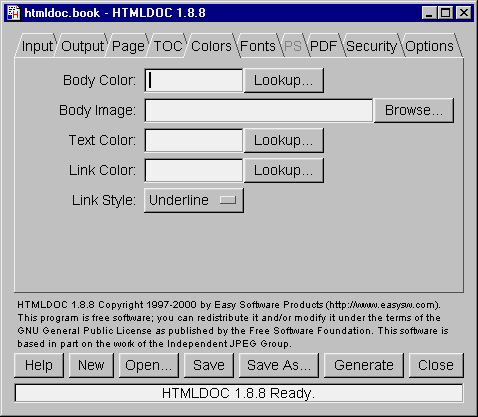
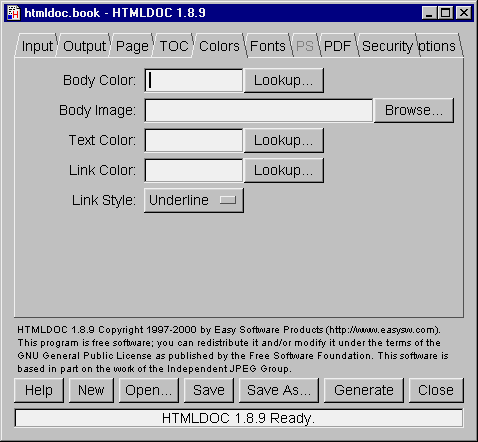
Doco updates.
Updated configure script to test for snprintf.

Changed region(s): [[0.0, 0.0, 0.9958, 0.53], [0.0293, 0.6859, 0.9665, 0.9664], [0.1464, 0.3118, 0.2929, 0.3429]]

diff --git a/branches/branch-1.8/doc/6-htmlref.html b/branches/branch-1.8/doc/6-htmlref.html
@@ -23,6 +23,10 @@ htmldoc -f filename.pdf filename.html
 page files you <B>must</B> use the <CODE>--webpage</CODE> option at the
 command-line or choose <VAR>Web Page</VAR> in the input tab of the GUI.
 
+<P><B><I>HTMLDOC</I> does not support HTML 4.0 elements, attributes,
+stylesheets, or scripting.</B>
+
+<!-- NEED 5in -->
 <H2>Elements</H2>
 
 The following HTML elements are recognized by <I>HTMLDOC</I>:
@@ -34,7 +38,6 @@ The following HTML elements are recognized by <I>HTMLDOC</I>:
 <TR><TD>A</TD><TD ALIGN="CENTER">1.0</TD><TD ALIGN="CENTER">Yes</TD><TD><A HREF="#LINKS">See Below</A></TD></TR>
 <TR><TD>ACRONYM</TD><TD ALIGN="CENTER">2.0</TD><TD ALIGN="CENTER">Yes</TD><TD>No font change</TD></TR>
 <TR><TD>ADDRESS</TD><TD ALIGN="CENTER">2.0</TD><TD ALIGN="CENTER">Yes</TD><TD>&nbsp;</TD></TR>
-<TR><TD>APPLET</TD><TD ALIGN="CENTER">4.0</TD><TD ALIGN="CENTER">No</TD><TD>&nbsp;</TD></TR>
 <TR><TD>AREA</TD><TD ALIGN="CENTER">2.0</TD><TD ALIGN="CENTER">No</TD><TD>&nbsp;</TD></TR>
 <TR><TD>B</TD><TD ALIGN="CENTER">1.0</TD><TD ALIGN="CENTER">Yes</TD><TD>&nbsp;</TD></TR>
 <TR><TD>BASE</TD><TD ALIGN="CENTER">2.0</TD><TD ALIGN="CENTER">No</TD><TD>&nbsp;</TD></TR>
@@ -48,8 +51,6 @@ The following HTML elements are recognized by <I>HTMLDOC</I>:
 <TR><TD>CENTER</TD><TD ALIGN="CENTER">2.0</TD><TD ALIGN="CENTER">Yes</TD><TD>&nbsp;</TD></TR>
 <TR><TD>CITE</TD><TD ALIGN="CENTER">2.0</TD><TD ALIGN="CENTER">Yes</TD><TD>Italic/Oblique</TD></TR>
 <TR><TD>CODE</TD><TD ALIGN="CENTER">2.0</TD><TD ALIGN="CENTER">Yes</TD><TD>Courier</TD></TR>
-<TR><TD>COL</TD><TD ALIGN="CENTER">4.0</TD><TD ALIGN="CENTER">No</TD><TD>&nbsp;</TD></TR>
-<TR><TD>COLGROUP</TD><TD ALIGN="CENTER">4.0</TD><TD ALIGN="CENTER">No</TD><TD>&nbsp;</TD></TR>
 <TR><TD>DD</TD><TD ALIGN="CENTER">2.0</TD><TD ALIGN="CENTER">Yes</TD><TD>&nbsp;</TD></TR>
 <TR><TD>DEL</TD><TD ALIGN="CENTER">2.0</TD><TD ALIGN="CENTER">Yes</TD><TD>Strikethrough</TD></TR>
 <TR><TD>DFN</TD><TD ALIGN="CENTER">2.0</TD><TD ALIGN="CENTER">Yes</TD><TD>Helvetica</TD></TR>
@@ -98,16 +99,12 @@ The following HTML elements are recognized by <I>HTMLDOC</I>:
 <TR><TD>SPACER</TD><TD ALIGN="CENTER">N3.0</TD><TD ALIGN="CENTER">Yes</TD><TD>&nbsp;</TD></TR>
 <TR><TD>STRIKE</TD><TD ALIGN="CENTER">2.0</TD><TD ALIGN="CENTER">Yes</TD><TD>&nbsp;</TD></TR>
 <TR><TD>STRONG</TD><TD ALIGN="CENTER">2.0</TD><TD ALIGN="CENTER">Yes</TD><TD>Boldface Italic/Oblique</TD></TR>
-<TR><TD>STYLE</TD><TD ALIGN="CENTER">4.0</TD><TD ALIGN="CENTER">No</TD><TD>&nbsp;</TD></TR>
 <TR><TD>SUB</TD><TD ALIGN="CENTER">2.0</TD><TD ALIGN="CENTER">Yes</TD><TD>Reduced Fontsize</TD></TR>
 <TR><TD>SUP</TD><TD ALIGN="CENTER">2.0</TD><TD ALIGN="CENTER">Yes</TD><TD>Reduced Fontsize</TD></TR>
 <TR><TD>TABLE</TD><TD ALIGN="CENTER">2.0</TD><TD ALIGN="CENTER">Yes</TD><TD><A HREF="#TABLE">See Below</A></TD></TR>
-<TR><TD>TBODY</TD><TD ALIGN="CENTER">4.0</TD><TD ALIGN="CENTER">Yes</TD><TD>&nbsp;</TD></TR>
 <TR><TD>TD</TD><TD ALIGN="CENTER">2.0</TD><TD ALIGN="CENTER">Yes</TD><TD>&nbsp;</TD></TR>
 <TR><TD>TEXTAREA</TD><TD ALIGN="CENTER">2.0</TD><TD ALIGN="CENTER">No</TD><TD>&nbsp;</TD></TR>
-<TR><TD>TFOOT</TD><TD ALIGN="CENTER">4.0</TD><TD ALIGN="CENTER">No</TD><TD>&nbsp;</TD></TR>
 <TR><TD>TH</TD><TD ALIGN="CENTER">2.0</TD><TD ALIGN="CENTER">Yes</TD><TD>Boldface Center</TD></TR>
-<TR><TD>THEAD</TD><TD ALIGN="CENTER">4.0</TD><TD ALIGN="CENTER">No</TD><TD>&nbsp;</TD></TR>
 <TR><TD>TITLE</TD><TD ALIGN="CENTER">2.0</TD><TD ALIGN="CENTER">Yes</TD><TD>&nbsp;</TD></TR>
 <TR><TD>TR</TD><TD ALIGN="CENTER">2.0</TD><TD ALIGN="CENTER">Yes</TD><TD>&nbsp;</TD></TR>
 <TR><TD>TT</TD><TD ALIGN="CENTER">2.0</TD><TD ALIGN="CENTER">Yes</TD><TD>Courier</TD></TR>
@@ -144,6 +141,7 @@ The following HTML elements are recognized by <I>HTMLDOC</I>:
 
 </DL>
 
+<!-- NEED 5in -->
 <H2><A NAME="FONT">FONT Attributes</A></H2>
 
 Limited typeface specification is currently supported to ensure
@@ -282,6 +280,7 @@ can directly link to another local PDF file from your HTML document with:
 &lt;A HREF="filename.pdf"&gt;...&lt;/A&gt;
 </PRE></UL>
 
+<!-- NEED 5in -->
 <H2><A NAME="META">META Attributes</A></H2>
 
 <I>HTMLDOC</I> supports the following <CODE>META</CODE> attributes for the
@@ -300,6 +299,9 @@ title page and document information:
 
 	<DT><CODE>&lt;META NAME="GENERATOR" CONTENT="..."</CODE>
 	<DD>Specifies the application that generated the HTML file.
+
+	<DT><CODE>&lt;META NAME="KEYWORDS" CONTENT="..."</CODE>
+	<DD>Specifies document search keywords.
 
 </DL>
 
@@ -331,6 +333,10 @@ included with the source code.
 	of the table.
 
 </UL>
+
+<P><B><I>HTMLDOC</I> does not support HTML 4.0 table elements or
+attributes, such as <CODE>TBODY</CODE>, <CODE>THEAD</CODE>,
+<CODE>TFOOT</CODE>, or <CODE>RULES</CODE>.</B>
 
 </BODY>
 </HTML>

diff --git a/branches/branch-1.8/doc/8-cmdref.html b/branches/branch-1.8/doc/8-cmdref.html
@@ -66,6 +66,7 @@ The <CODE>--bodycolor</CODE> option specifies the background color for all
 pages in the document. The color can be specified by name or as a 6-digit
 hexadecimal number of the form <CODE>#RRGGBB</CODE>.
 
+<!-- NEED 4in -->
 <H3>--bodyfont typeface</H3>
 
 The <CODE>--bodyfont</CODE> option specifies the default text font used for
@@ -113,6 +114,7 @@ generating PostScript and PDF files. It does not affect the font size of text.
 
 <P>This option is only available when generating PostScript or PDF files.
 
+<!-- NEED 4in -->
 <H3>--charset charset</H3>
 
 The <CODE>--charset</CODE> option specifies the 8-bit character set encoding
@@ -178,6 +180,7 @@ features for PDF output.
 
 <P>This option is only available when generating PDF files.
 
+<!-- NEED 3in -->
 <H3>--firstpage page</H3>
 
 The <CODE>--firstpage</CODE> option specifies the first page that will be
@@ -204,6 +207,7 @@ The <CODE>--fontspacing</CODE> option specifies the line spacing for the
 entire document as a multiplier of the base font size. A <CODE>spacing</CODE>
 value of 1 makes each line of text the same height as the font.
 
+<!-- NEED 6in -->
 <H3>--footer lcr</H3>
 
 The <CODE>--footer</CODE> option specifies the contents of the page
@@ -258,6 +262,7 @@ The <CODE>--gray</CODE> option specifies that grayscale output is desired.
 
 <P>This option is only available when generating PostScript or PDF files.
 
+<!-- NEED 6in -->
 <H3>--header lcr</H3>
 
 The <CODE>--header</CODE> option specifies the contents of the page
@@ -287,6 +292,7 @@ can be one of the following:
 
 <P>This option is only available when generating PostScript or PDF files.
 
+<!-- NEED 4in -->
 <H3>--headfootfont font</H3>
 
 The <CODE>--headfootfont</CODE> option specifies the font that is used for
@@ -332,6 +338,7 @@ text in points (1 point = 1/72nd inch).
 
 <P>This option is only available when generating PostScript or PDF files.
 
+<!-- NEED 4in -->
 <H3>--headingfont typeface</H3>
 
 The <CODE>--headingfont</CODE> options sets the typeface that is used
@@ -459,7 +466,7 @@ each page will be displayed in the document.
 
 <P>This option is only available when generating PDF files.
 
-<!-- NEED 5in -->
+<!-- NEED 6in -->
 <H3>--pageeffect effect</H3>
 
 The <CODE>--pageeffect</CODE> option specifies the page effect to use in
@@ -526,6 +533,7 @@ server paths to load.
 <P>Directories are separated by the semicolon (;) so that drive letters
 (and eventually URLs) can be specified.
 
+<!-- NEED 5in -->
 <H3>--permissions permission</H3>
 
 <P>The <CODE>--permissions</CODE> option specifies the document permissions.
@@ -596,6 +604,7 @@ The <CODE>--textcolor</CODE> option specifies the default text color
 for all pages in the document. The color can be specified by name or as
 a 6-digit hexadecimal number of the form <CODE>#RRGGBB</CODE>.
 
+<!-- NEED 4in -->
 <H3>--textfont typeface</H3>
 
 The <CODE>--textfont</CODE> options sets the typeface that is used for
@@ -629,6 +638,7 @@ the title page.
 The <CODE>--titleimage</CODE> option specifies the title image for the
 title page. The supported formats are GIF, JPEG, and PNG.
 
+<!-- NEED 6in -->
 <H3>--tocfooter lcr</H3>
 
 The <CODE>--tocfooter</CODE> option specifies the contents of the
@@ -659,6 +669,7 @@ entirely.
 
 <P>This option is only available when generating PostScript or PDF files.
 
+<!-- NEED 6in -->
 <H3>--tocheader lcr</H3>
 
 The <CODE>--tocheader</CODE> option specifies the contents of the

diff --git a/branches/branch-1.8/doc/5-cgi.html b/branches/branch-1.8/doc/5-cgi.html
@@ -8,25 +8,35 @@ scripts and programs.
 
 <H2>The Basics</H2>
 
-<I>HTMLDOC</I> can be used in a variety of ways to generate formatted reports
-on a web server. The most common way is to combine <I>HTMLDOC</I> with a CGI
-script or program and send the output to the HTTP client.
+<I>HTMLDOC</I> can be used in a variety of ways to generate
+formatted reports on a web server. The most common way is to
+combine <I>HTMLDOC</I> with a CGI script or program and send the
+output to the HTTP client.
 
-<P>To make this work the CGI script or program must send the appropriate HTTP
-attributes, the required empty line to signify the beginning of the
-document, and then execute the <I>HTMLDOC</I> program to generate the HTML,
-PostScript, or PDF file as needed.
+<P>To make this work the CGI script or program must send the
+appropriate HTTP attributes, the required empty line to signify
+the beginning of the document, and then execute the
+<I>HTMLDOC</I> program to generate the HTML, PostScript, or PDF
+file as needed.
+
+<P>Another way to generate PDF files from your reports is to use
+<I>HTMLDOC</I> as a "portal" application. When used as a portal,
+<I>HTMLDOC</I> automatically retrieves the named document or
+report from your server and passes a PDF version to the web
+browser. See the next section for more information.
+
+<!-- NEED 5in -->
 
 <H2>Calling HTMLDOC from a Shell Script</H2>
 
 Shell scripts are probably the easiest to work with, but are normally
 limited to GET type requests. Here is a script called
-<VAR>topdf</VAR> that will convert the named HTML file to PDF:
+<VAR>topdf</VAR> that acts as a portal, converting the named file to PDF:
 
 <UL><PRE>
 #!/bin/sh
 #
-# Sample CGI shell script to convert the named HTML file to PDF on-the-fly.
+# Sample "portal" script to convert the named HTML file to PDF on-the-fly.
 #
 # Usage: http://www.domain.com/path/topdf/path/filename.html
 #
@@ -76,6 +86,7 @@ sub topdf {
 }
 </PRE></UL>
 
+<!-- NEED 5in -->
 <H2>Calling HTMLDOC from C</H2>
 
 <P>C programs offer the best flexibility and easily support on-the-fly

diff --git a/branches/branch-1.8/doc/intro.html b/branches/branch-1.8/doc/intro.html
@@ -2,15 +2,15 @@
 <HEAD>
 	<META NAME="author" CONTENT="Easy Software Products">
 	<META NAME="copyright" CONTENT="Copyright 1997-2000, See the GNU General Public License for Details.">
-	<META NAME="docnumber" CONTENT="ESP-003-20000630">
-	<TITLE>HTMLDOC 1.8.8 Software Users Manual</TITLE>
+	<META NAME="docnumber" CONTENT="ESP-003-20001206">
+	<TITLE>HTMLDOC 1.8.9 Software Users Manual</TITLE>
 </HEAD>
 <BODY>
 
 <H1 ALIGN="RIGHT"><A NAME="INTRO">Introduction</A></H1>
 
 This document describes how to use the <I>HTMLDOC</I> software, version
-1.8.8.  <I>HTMLDOC</I> converts Hyper-Text Markup Language ("HTML") input
+1.8.9.  <I>HTMLDOC</I> converts Hyper-Text Markup Language ("HTML") input
 files into indexed HTML, Adobe&reg; PostScript&reg;, or Adobe Portable
 Document Format ("PDF") files. 
 

diff --git a/branches/branch-1.8/visualc/config.h b/branches/branch-1.8/visualc/config.h
@@ -1,5 +1,5 @@
 /*
- * "$Id: config.h,v 1.20.2.2 2000/12/06 16:24:15 mike Exp $"
+ * "$Id: config.h,v 1.20.2.3 2000/12/06 19:00:02 mike Exp $"
  *
  *   Configuration file for HTMLDOC.
  *
@@ -55,6 +55,7 @@
 #define HAVE_STRCASECMP
 #define HAVE_STRNCASECMP
 
+
 /*
  * How about snprintf() and vsnprintf()?
  */
@@ -63,6 +64,7 @@
 #  define HAVE_SNPRINTF
 #  define HAVE_VSNPRINTF
 #endif /* !_CONSOLE */
+
 
 /*
  * What is the version number for this software?
@@ -85,6 +87,6 @@
 #define MAX_ROWS	200
 
 /*
- * End of "$Id: config.h,v 1.20.2.2 2000/12/06 16:24:15 mike Exp $".
+ * End of "$Id: config.h,v 1.20.2.3 2000/12/06 19:00:02 mike Exp $".
  */
 
